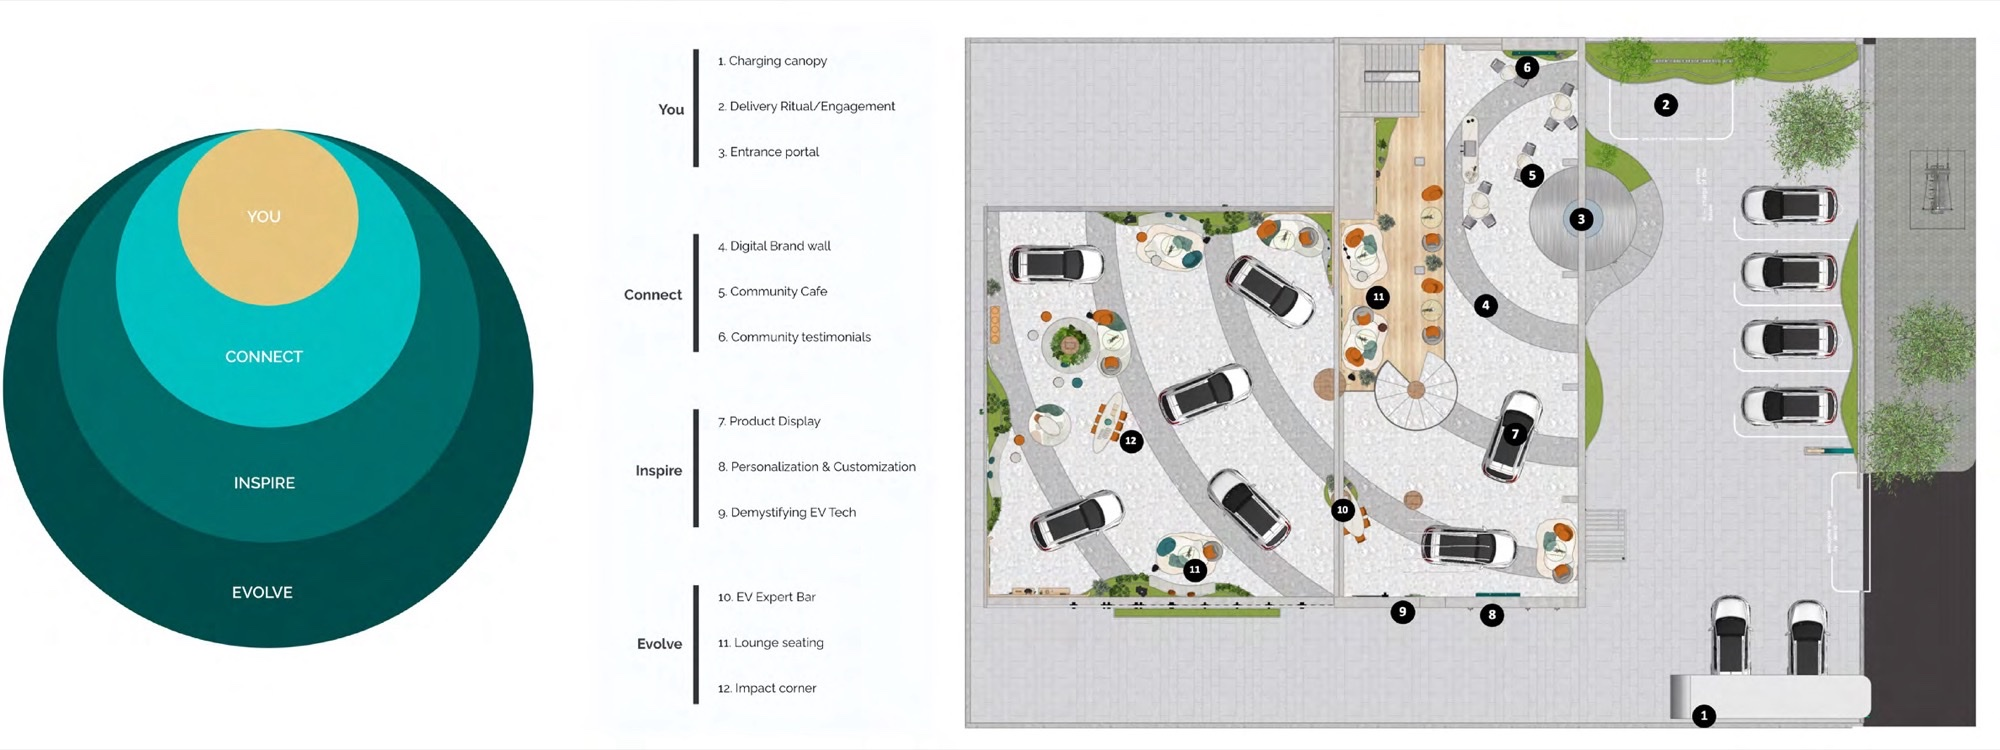
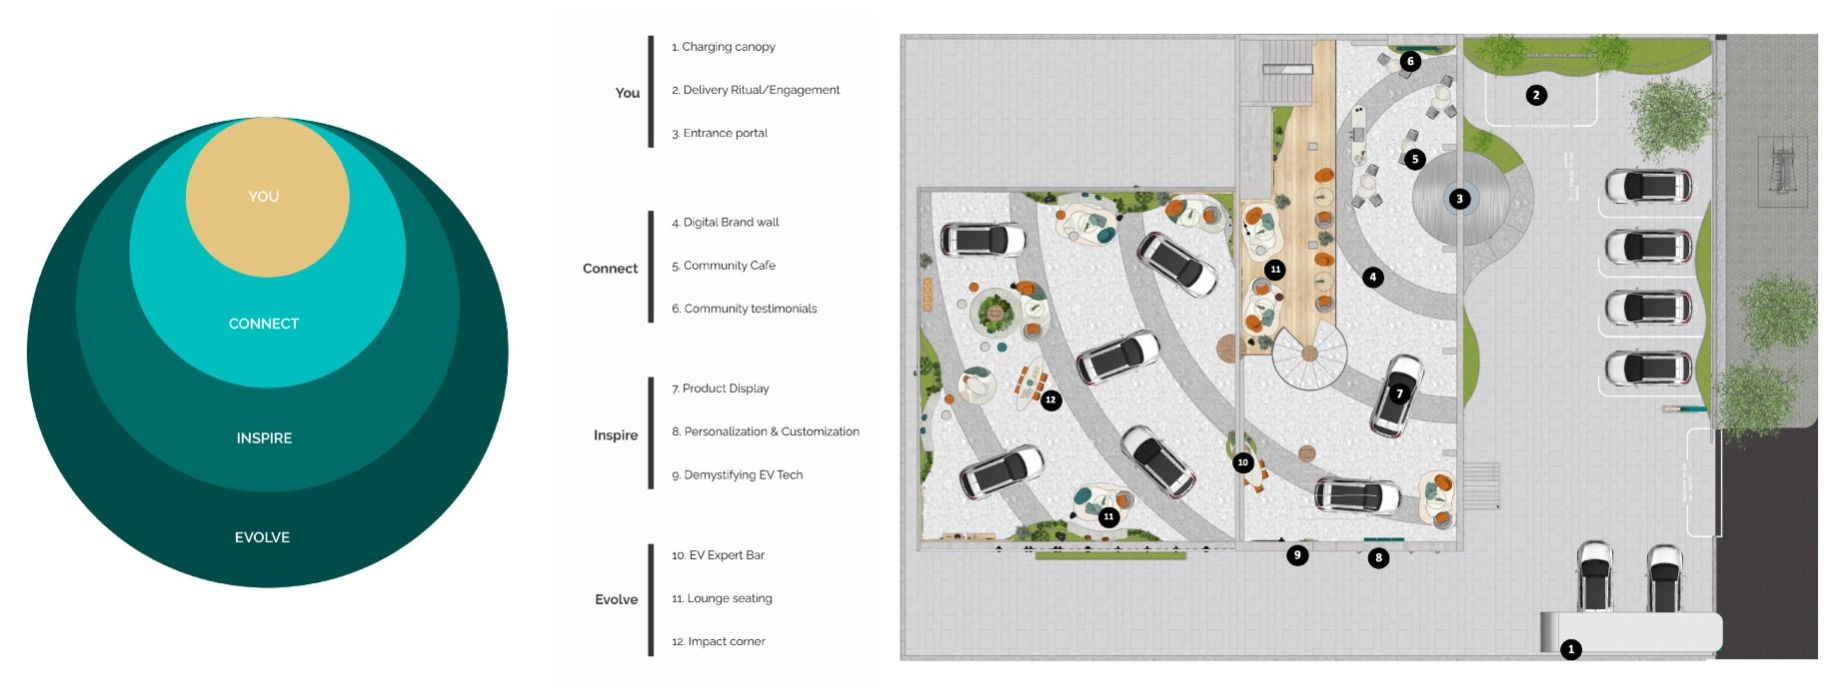
Replace TATA.ev zoning diagram with sharper export
Claude-Session: https://claude.ai/code/session_01TvPUFYKEADTWzq9u8emBqb

diff --git a/tata-ev.html b/tata-ev.html
@@ -112,7 +112,7 @@
         </li>
       </ol>
       <figure class="fig fig--diagram">
-        <img src="assets/img/tata-ev-zoning.jpg" width="2000" height="750" alt="Zoning diagram: four nested circles for You, Connect, Inspire and Evolve, beside the store plan with each zone’s touchpoints marked." loading="lazy" decoding="async">
+        <img src="assets/img/tata-ev-zoning.jpg" width="1840" height="700" alt="Zoning diagram: four nested circles for You, Connect, Inspire and Evolve, beside the store plan with each zone’s touchpoints marked." loading="lazy" decoding="async">
       </figure>
     </section>
 
